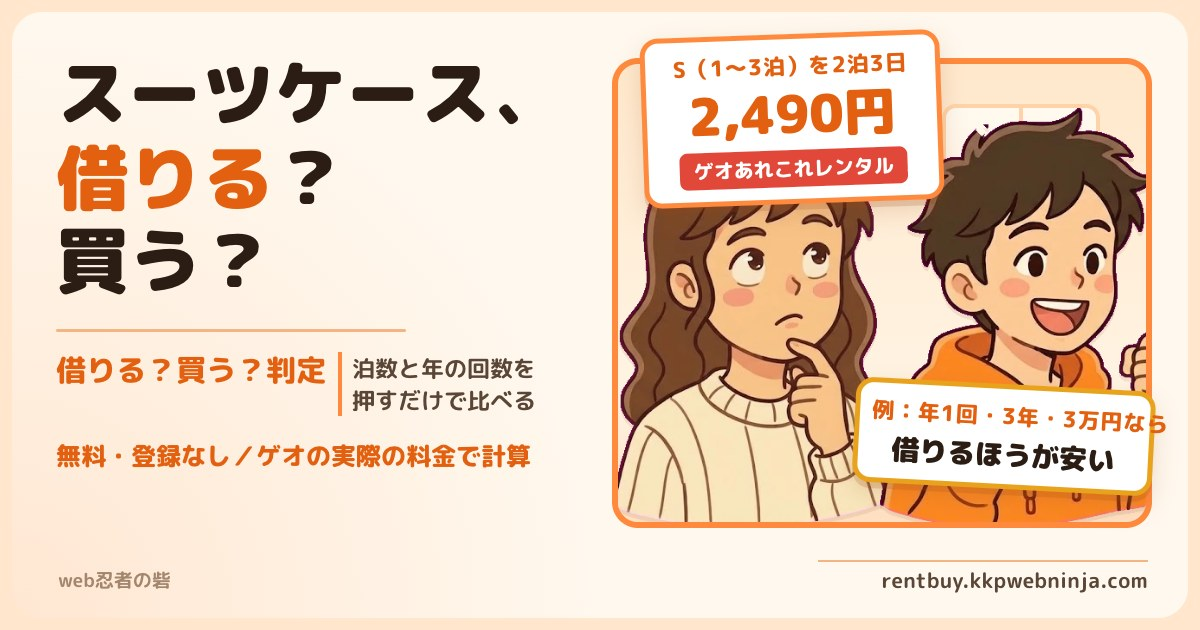
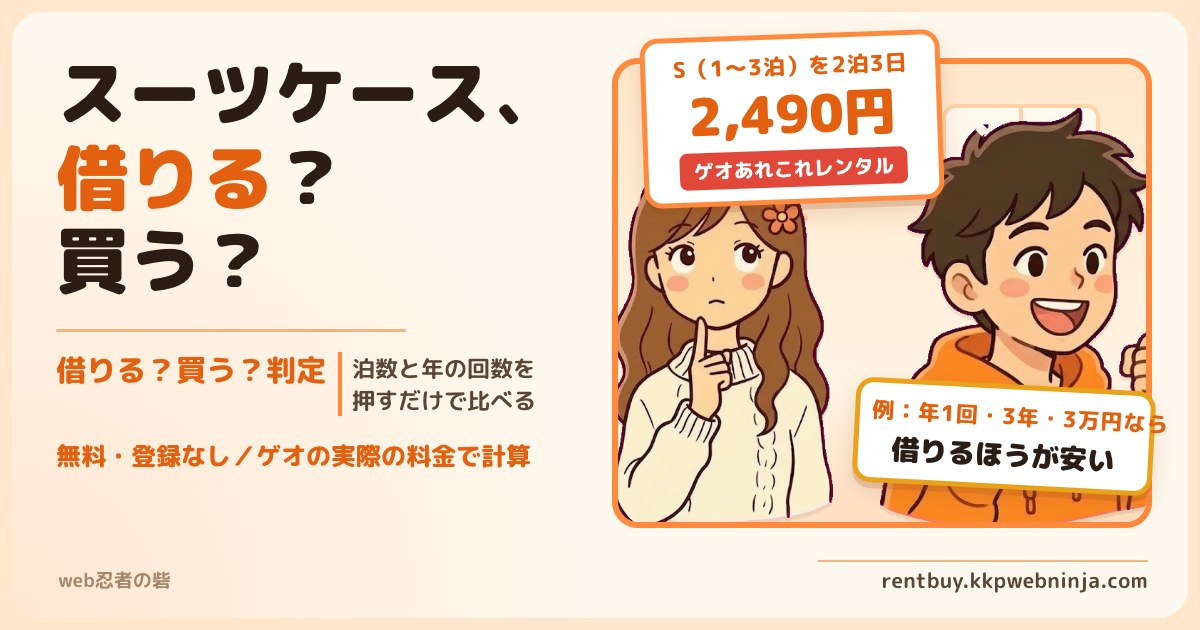
カード画像（OGP）の女の子を、ひと目で女の子と分かる絵に差し替える
男の子と同じ顔に見えていたため、kkp-kit の女の子の素材を作り直して書き出し直した（kkp-kit 978018e）。
og:image・twitter:image の ?d= を 20261023 にして、SNS に新しい画像を読み直させる。

Changed region(s): [[0.4933, 0.3016, 0.74, 0.8444]]

diff --git a/geo-arekore/index.html b/geo-arekore/index.html
@@ -20,9 +20,9 @@
 <meta property="og:url" content="https://rentbuy.kkpwebninja.com/geo-arekore/">
 <meta property="og:site_name" content="借りる？買う？判定">
 <meta property="og:locale" content="ja_JP">
-<meta property="og:image" content="https://rentbuy.kkpwebninja.com/ogp.jpg?d=20261022">
+<meta property="og:image" content="https://rentbuy.kkpwebninja.com/ogp.jpg?d=20261023">
 <meta name="twitter:card" content="summary_large_image">
-<meta name="twitter:image" content="https://rentbuy.kkpwebninja.com/ogp.jpg?d=20261022">
+<meta name="twitter:image" content="https://rentbuy.kkpwebninja.com/ogp.jpg?d=20261023">
 
 <!-- GA4（砦共通） -->
 <script async src="https://www.googletagmanager.com/gtag/js?id=G-2LM85GJN0L"></script>

diff --git a/index.html b/index.html
@@ -20,9 +20,9 @@
 <meta property="og:type" content="website">
 <meta property="og:url" content="https://rentbuy.kkpwebninja.com/">
 <meta property="og:site_name" content="借りる？買う？判定">
-<meta property="og:image" content="https://rentbuy.kkpwebninja.com/ogp.jpg?d=20261022">
+<meta property="og:image" content="https://rentbuy.kkpwebninja.com/ogp.jpg?d=20261023">
 <meta name="twitter:card" content="summary_large_image">
-<meta name="twitter:image" content="https://rentbuy.kkpwebninja.com/ogp.jpg?d=20261022">
+<meta name="twitter:image" content="https://rentbuy.kkpwebninja.com/ogp.jpg?d=20261023">
 
 <script>
 // 確認用: ?preview=1 と localhost では広告と GA4 を止める
